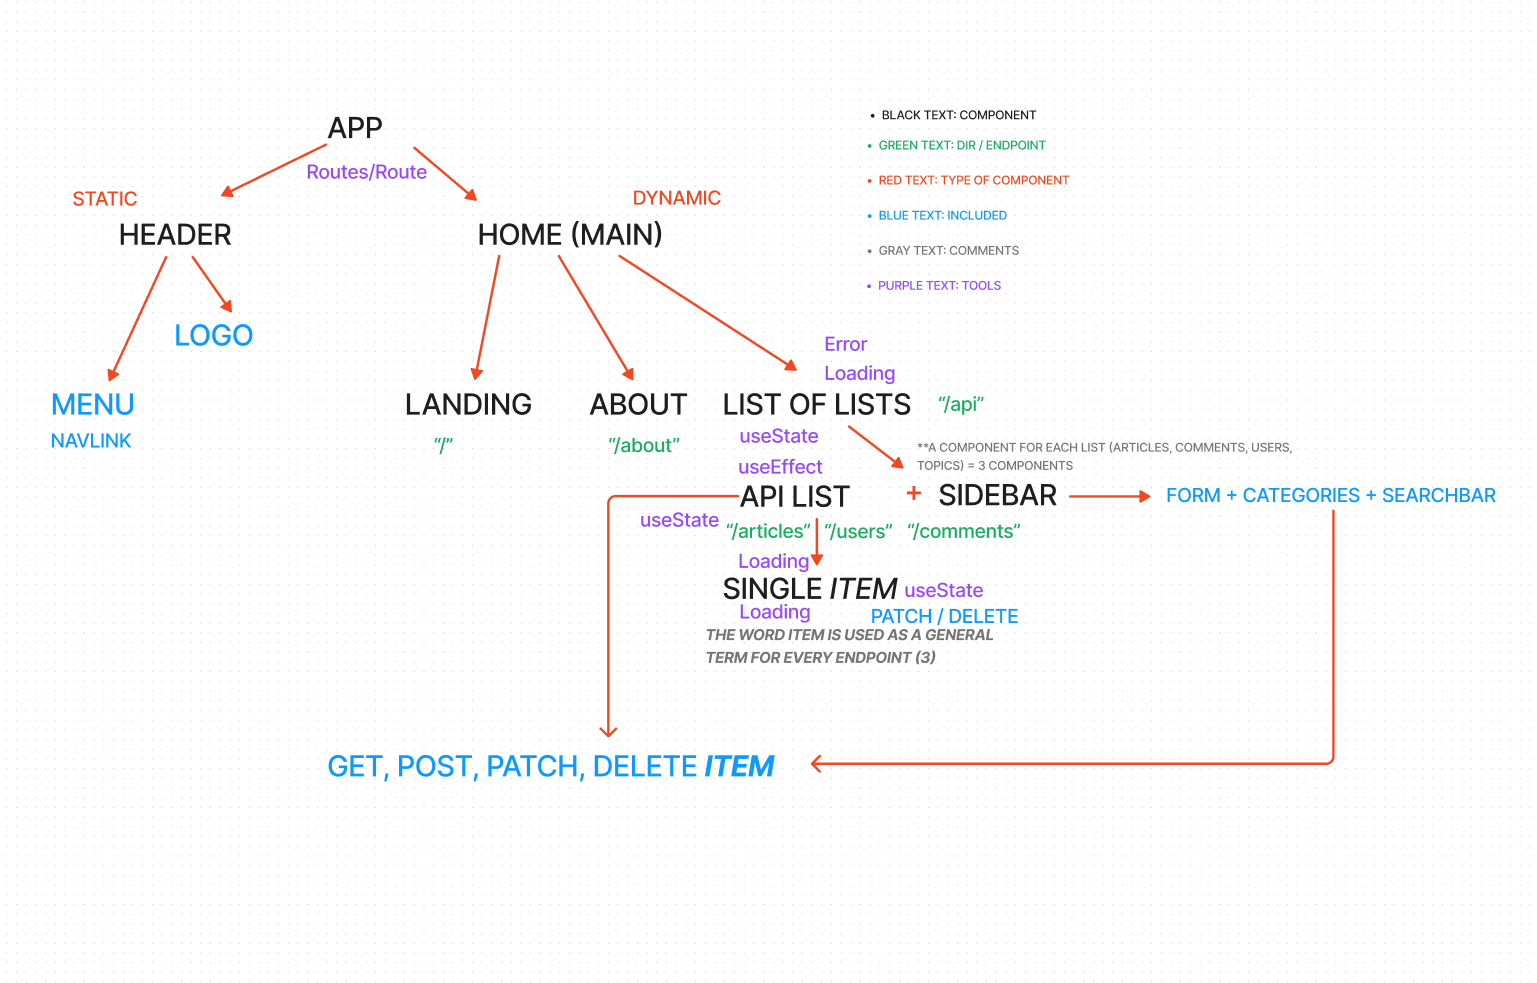
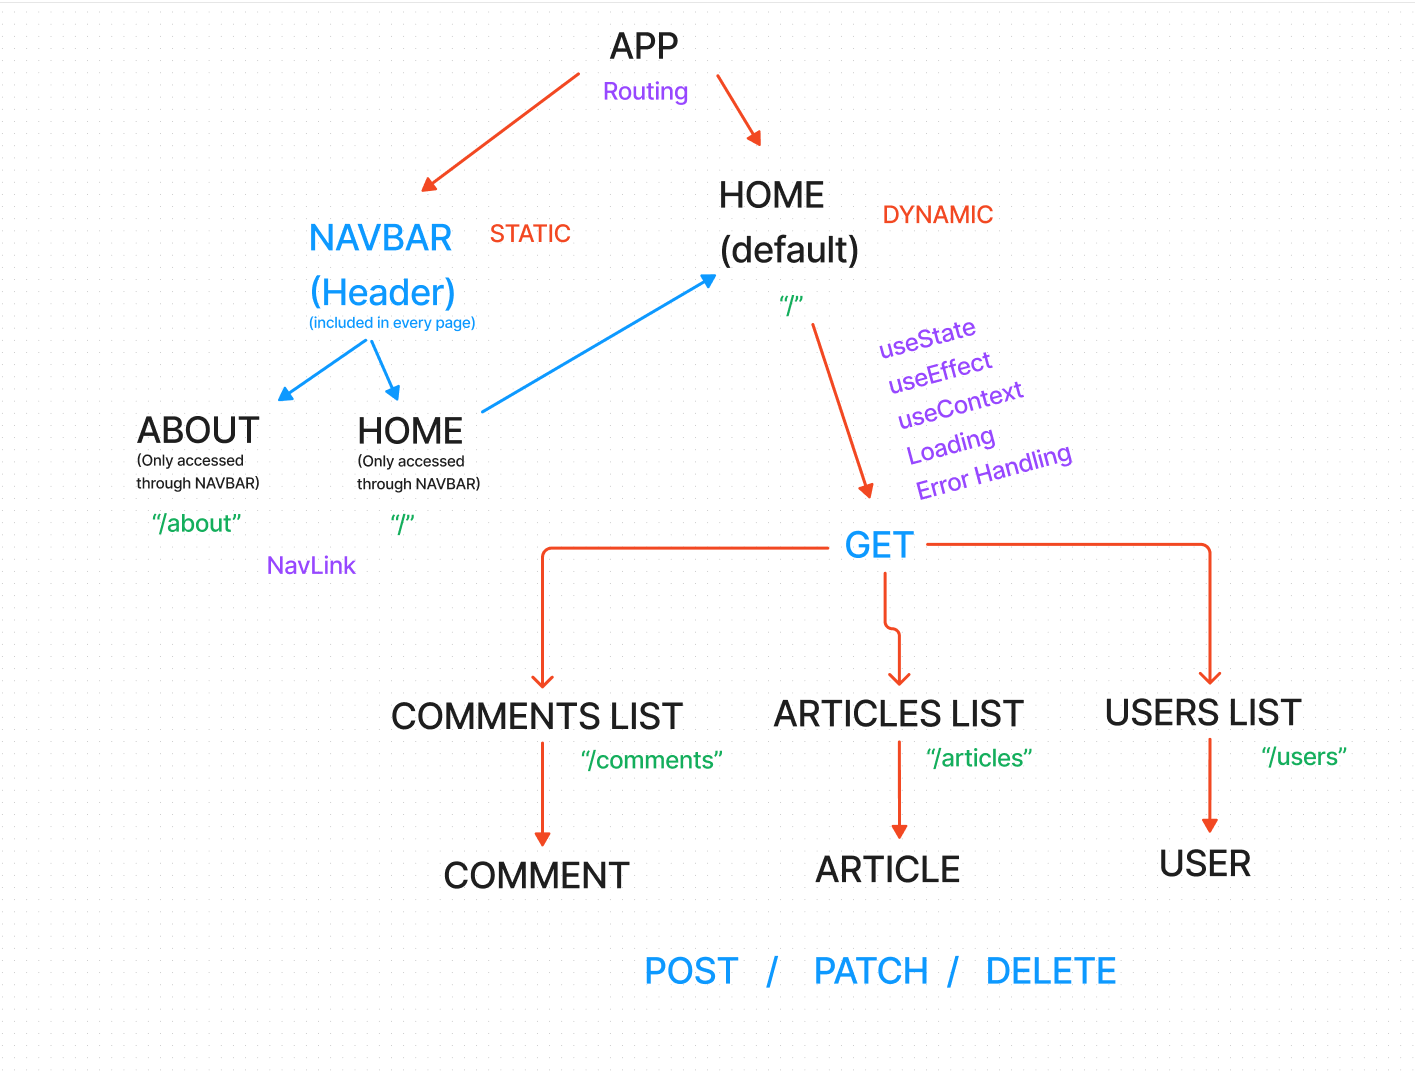
Corrected Planning (ticket-3)

diff --git a/src/App copy 2.jsx b/src/App copy 2.jsx
@@ -1,0 +1,35 @@
+import { useState } from 'react'
+import reactLogo from './assets/react.svg'
+import viteLogo from '/vite.svg'
+import './App.css'
+
+function App() {
+  const [count, setCount] = useState(0)
+
+  return (
+    <>
+      <div>
+        <a href="https://vitejs.dev" target="_blank">
+          <img src={viteLogo} className="logo" alt="Vite logo" />
+        </a>
+        <a href="https://react.dev" target="_blank">
+          <img src={reactLogo} className="logo react" alt="React logo" />
+        </a>
+      </div>
+      <h1>Vite + React</h1>
+      <div className="card">
+        <button onClick={() => setCount((count) => count + 1)}>
+          count is {count}
+        </button>
+        <p>
+          Edit <code>src/App.jsx</code> and save to test HMR
+        </p>
+      </div>
+      <p className="read-the-docs">
+        Click on the Vite and React logos to learn more
+      </p>
+    </>
+  )
+}
+
+export default App

diff --git a/src/App copy 3.jsx b/src/App copy 3.jsx
@@ -1,0 +1,35 @@
+import { useState } from 'react'
+import reactLogo from './assets/react.svg'
+import viteLogo from '/vite.svg'
+import './App.css'
+
+function App() {
+  const [count, setCount] = useState(0)
+
+  return (
+    <>
+      <div>
+        <a href="https://vitejs.dev" target="_blank">
+          <img src={viteLogo} className="logo" alt="Vite logo" />
+        </a>
+        <a href="https://react.dev" target="_blank">
+          <img src={reactLogo} className="logo react" alt="React logo" />
+        </a>
+      </div>
+      <h1>Vite + React</h1>
+      <div className="card">
+        <button onClick={() => setCount((count) => count + 1)}>
+          count is {count}
+        </button>
+        <p>
+          Edit <code>src/App.jsx</code> and save to test HMR
+        </p>
+      </div>
+      <p className="read-the-docs">
+        Click on the Vite and React logos to learn more
+      </p>
+    </>
+  )
+}
+
+export default App

diff --git a/src/App copy 4.jsx b/src/App copy 4.jsx
@@ -1,0 +1,35 @@
+import { useState } from 'react'
+import reactLogo from './assets/react.svg'
+import viteLogo from '/vite.svg'
+import './App.css'
+
+function App() {
+  const [count, setCount] = useState(0)
+
+  return (
+    <>
+      <div>
+        <a href="https://vitejs.dev" target="_blank">
+          <img src={viteLogo} className="logo" alt="Vite logo" />
+        </a>
+        <a href="https://react.dev" target="_blank">
+          <img src={reactLogo} className="logo react" alt="React logo" />
+        </a>
+      </div>
+      <h1>Vite + React</h1>
+      <div className="card">
+        <button onClick={() => setCount((count) => count + 1)}>
+          count is {count}
+        </button>
+        <p>
+          Edit <code>src/App.jsx</code> and save to test HMR
+        </p>
+      </div>
+      <p className="read-the-docs">
+        Click on the Vite and React logos to learn more
+      </p>
+    </>
+  )
+}
+
+export default App

diff --git a/src/Header.jsx b/src/Header.jsx
@@ -1,0 +1,29 @@
+import React from "react";
+import { NavLink } from "react-router-dom";
+
+
+const Header = () => {
+return (
+    <nav>
+            <div className="nav-container">
+                <div>
+                    <img src="https://dewey.tailorbrands.com/production/brand_version_mockup_image/500/8475015500_71138b04-7bbf-4663-a942-ef17b43ccdbd.png?cb=1689602570" alt="logo" className="nav-logo" />
+                </div>
+                <ul className="nav-links">
+                    <li>
+                        <NavLink to="/">Home</NavLink>
+                    </li>
+                    <li>
+                        <NavLink to="/lists">Lists</NavLink>
+                    </li>
+                    <li>
+                        <NavLink to="/about">About</NavLink>
+                    </li>
+                </ul>
+           </div>
+        </nav>
+)
+}
+
+
+export default Header
